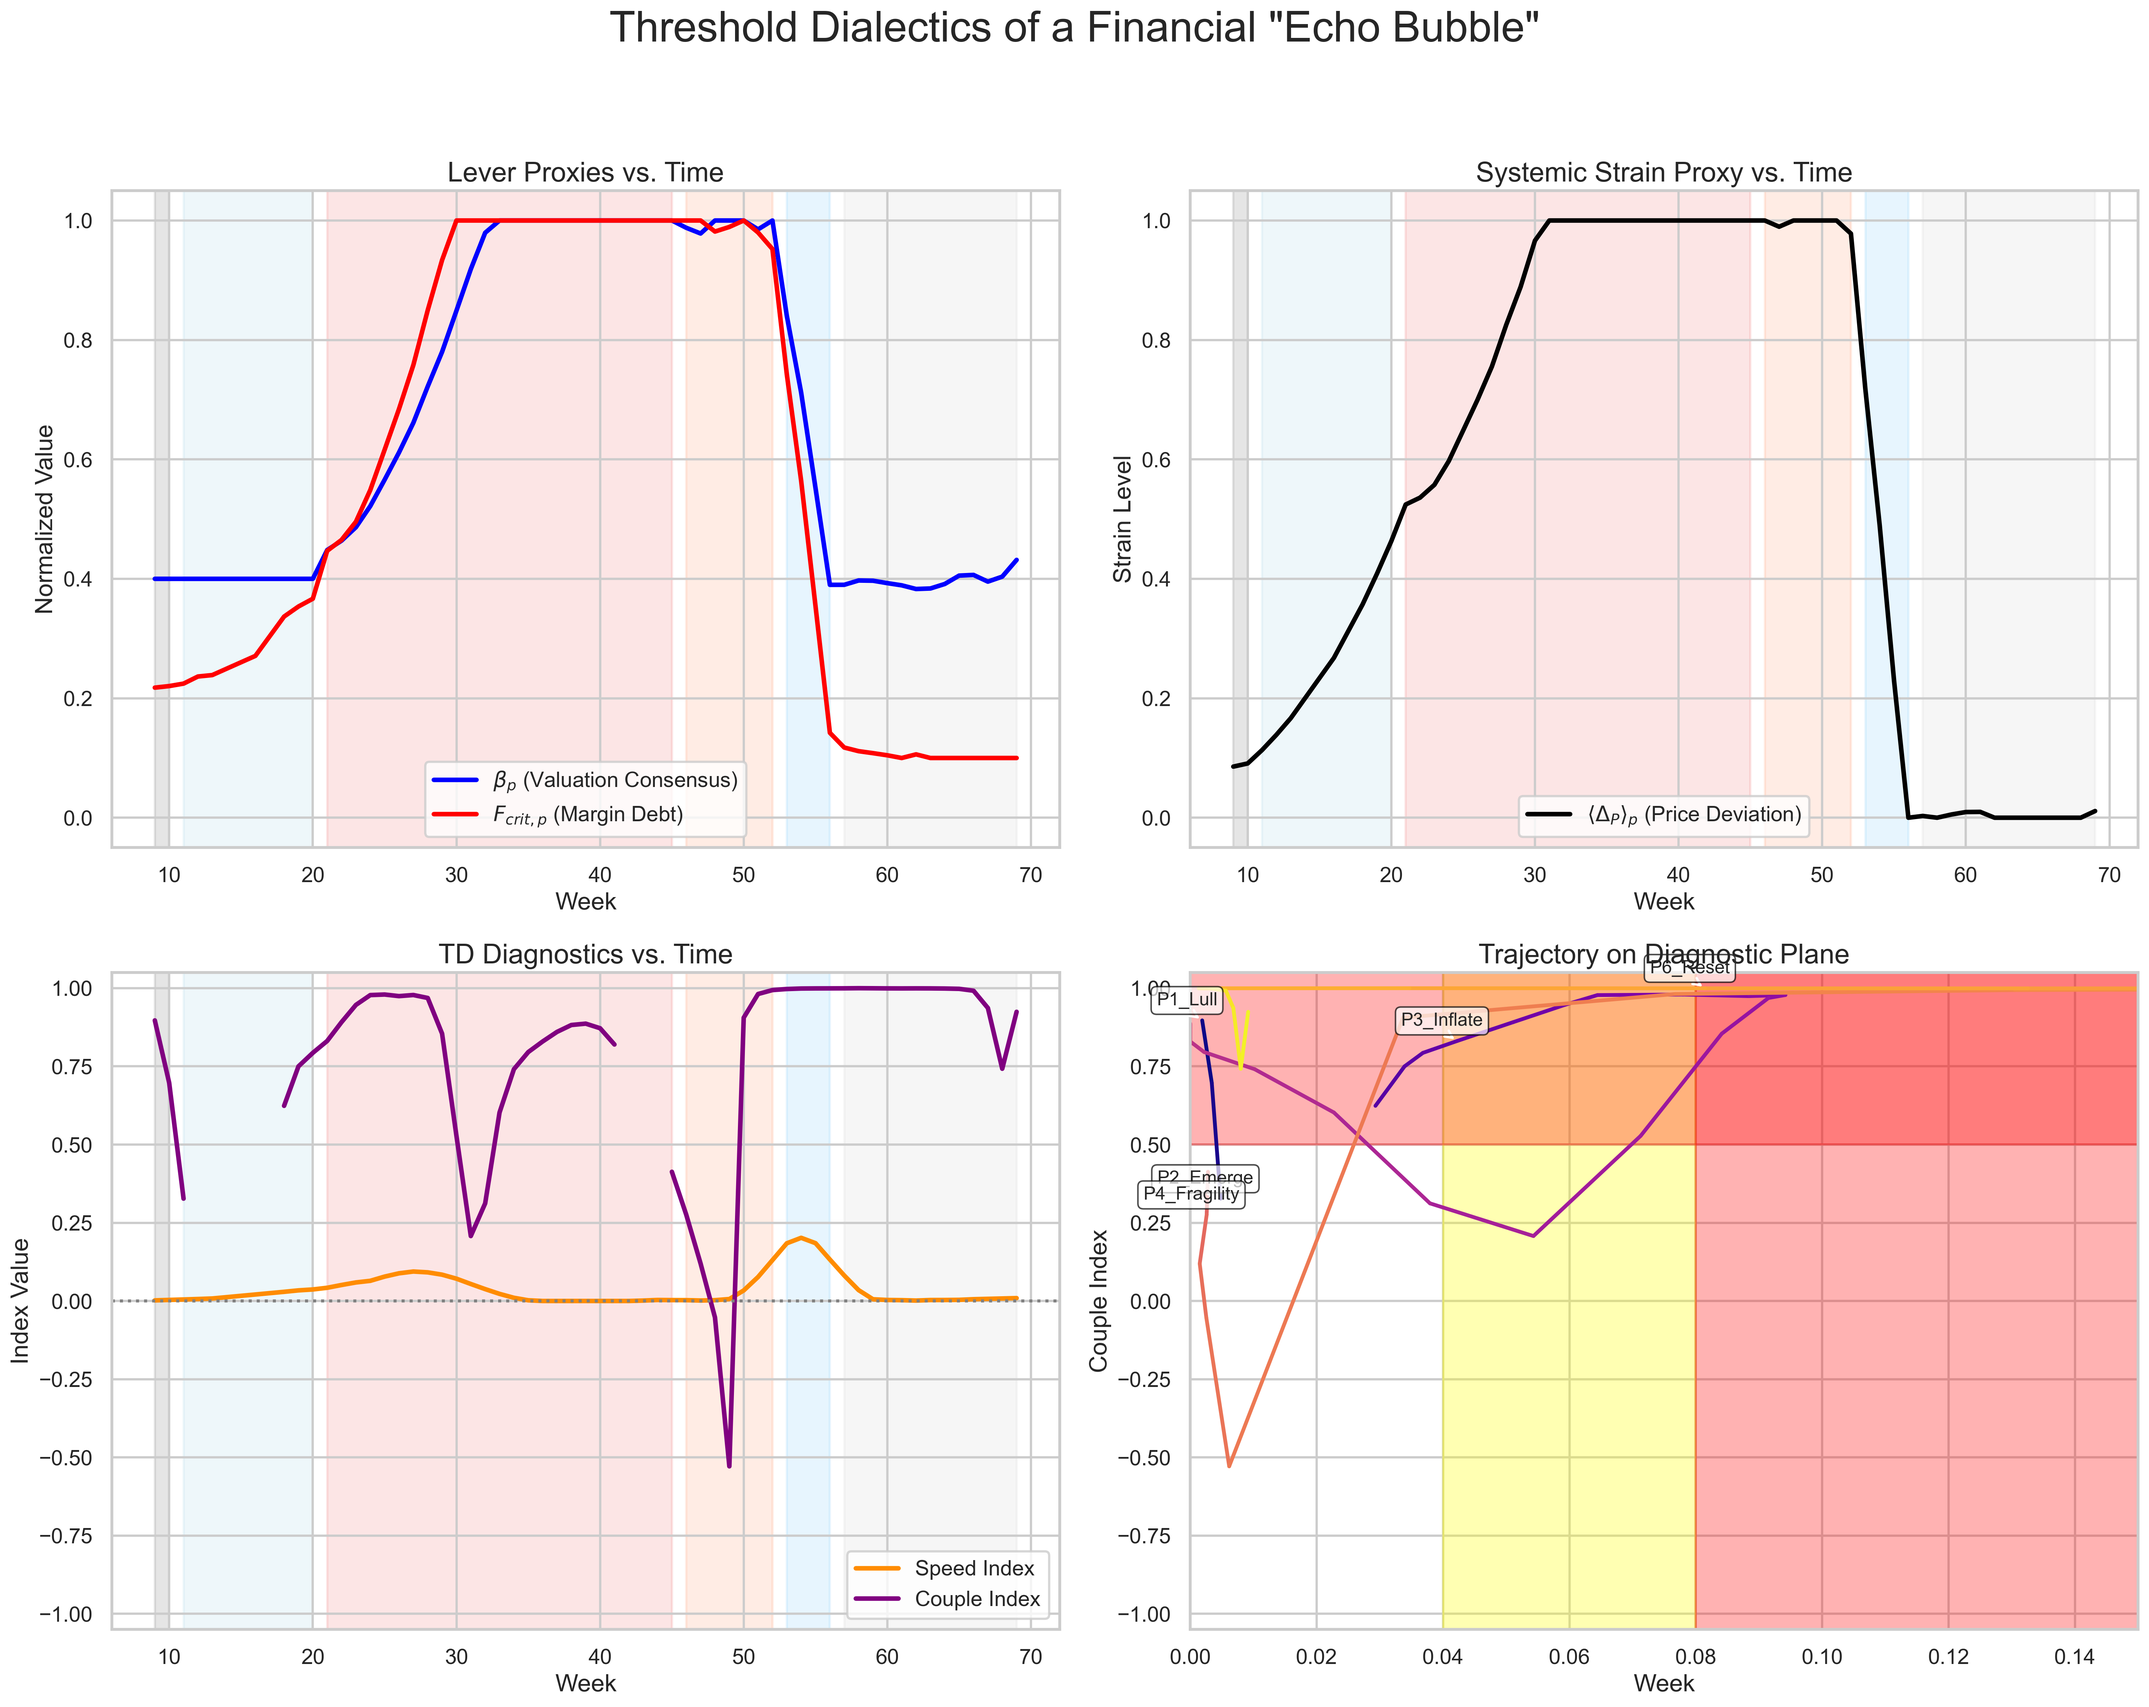
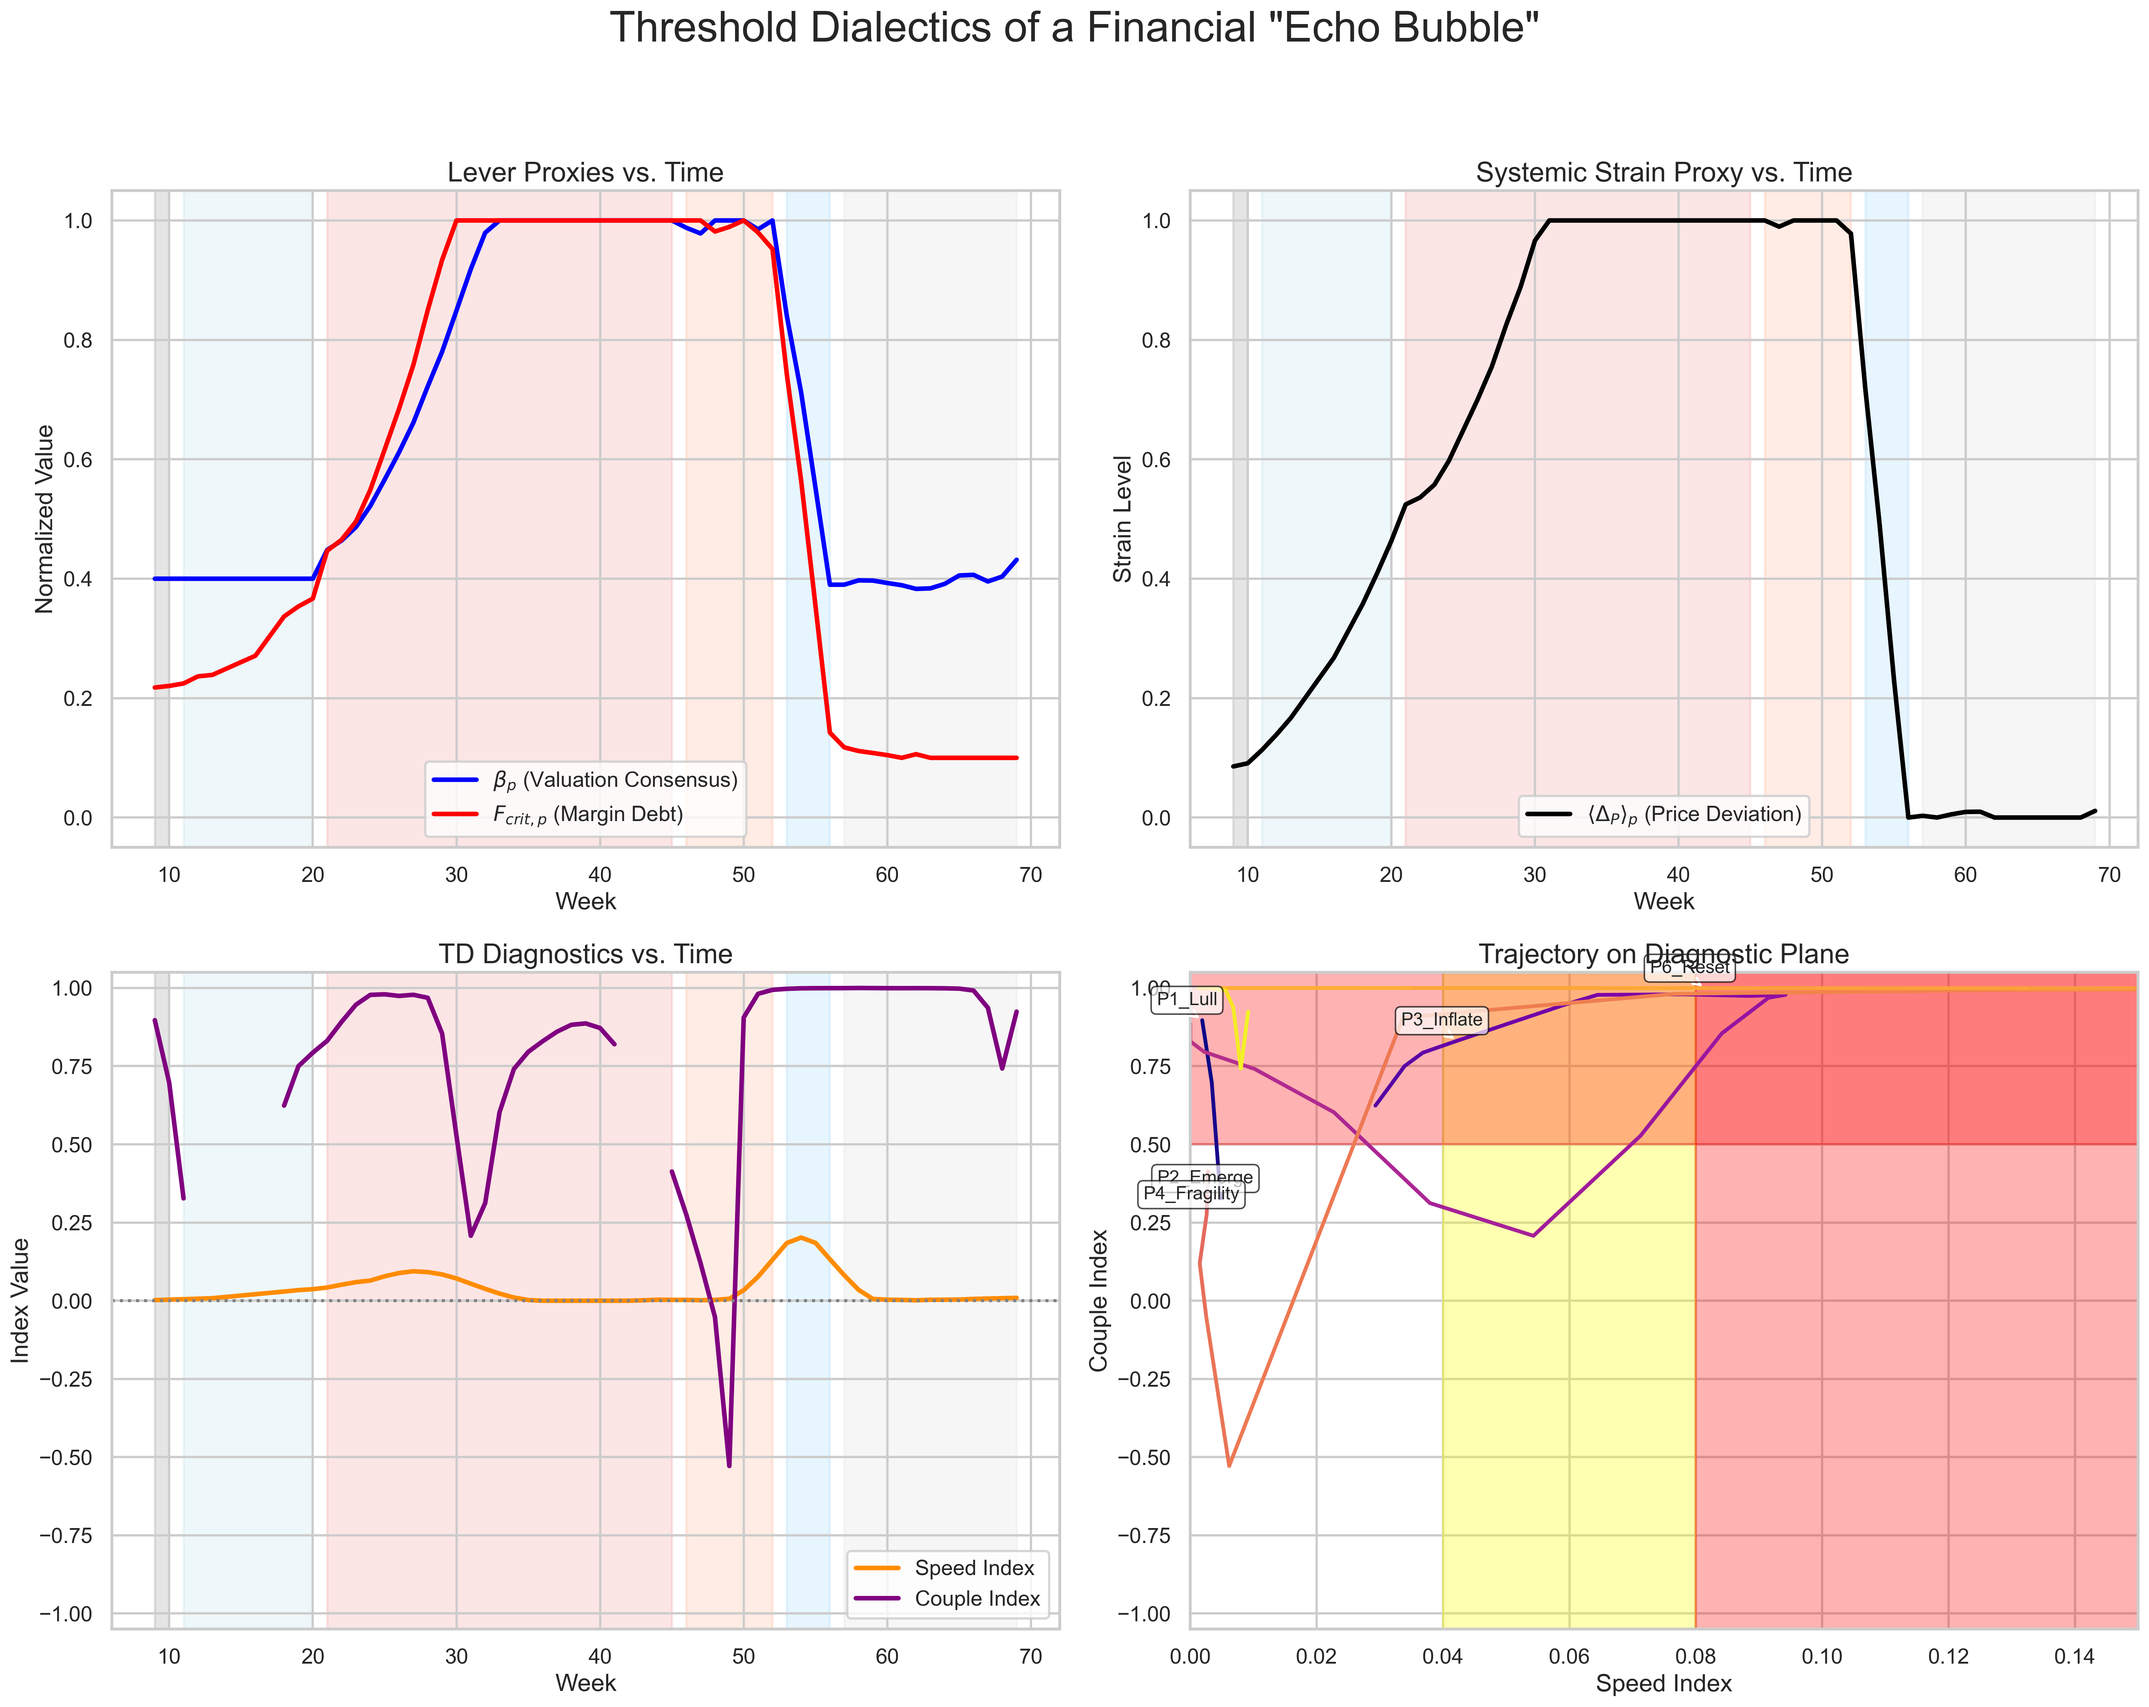
Finished plots

Changed region(s): [[0.7489, 0.9665, 0.8113, 0.9977], [0.5304, 0.6859, 0.5616, 0.7171]]

diff --git a/echo_bubble_19A.py b/echo_bubble_19A.py
@@ -215,9 +215,11 @@ def plot_financial_cascade(df):
 
     for ax_row in axes:
         for ax_col in ax_row:
-            ax_col.set_xlabel('Week', fontsize=16)
+            if ax_col is not axes[1, 1]:
+                ax_col.set_xlabel('Week', fontsize=16)
             ax_col.tick_params(axis='both', which='major', labelsize=14)
 
+    
     plt.tight_layout(rect=[0, 0, 1, 0.95])
     plt.savefig("financial_bubble_dashboard.png", dpi=300, bbox_inches='tight')
     plt.show()

diff --git a/lake_eutrophication_19B.py b/lake_eutrophication_19B.py
@@ -177,7 +177,8 @@ def plot_eutrophication_cascade(df):
 
     for ax_row in axes:
         for ax_col in ax_row:
-            ax_col.set_xlabel('Year', fontsize=16)
+            if ax_col is not axes[1, 1]:
+                ax_col.set_xlabel('Year', fontsize=16)
             ax_col.tick_params(axis='both', which='major', labelsize=14)
 
     plt.tight_layout(rect=[0, 0, 1, 0.95])
